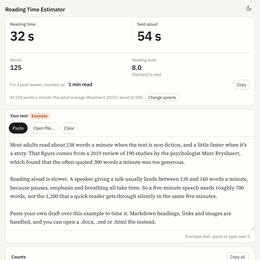
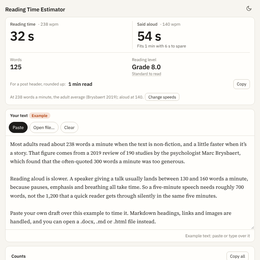
Reading Time Estimator: says whether a speech fits its slot, and how much to cut
Claude-Session: https://claude.ai/code/session_01PtGPta9aD4wVeXaSkeTyWi

diff --git a/tools/reading_time_estimator.html b/tools/reading_time_estimator.html
@@ -740,6 +740,15 @@ if (typeof module !== 'undefined') module.exports = RT;
     el.textContent = text;
     if (lastText !== null) { el.classList.remove('flash'); void el.offsetWidth; el.classList.add('flash'); }
   }
+  // Speeches have slots: measure against the nearest common length.
+  function fitLine(r) {
+    var s = Math.round(r.speakSeconds), T = [1, 2, 3, 5, 10, 15, 20, 30, 45, 60], t = T[0];
+    for (var i = 0; i < T.length; i++) if (Math.abs(T[i] * 60 - s) < Math.abs(t * 60 - s)) t = T[i];
+    var d = t * 60 - s;
+    if (d >= 0) return d ? 'Fits ' + t + ' min with ' + C.formatDuration(d) + ' to spare' : 'Exactly ' + t + ' min';
+    var cut = Math.ceil(-d / 60 * (r.words ? r.speakWpm : C.SPEAK_CPM[r.lang] * r.speakWpm / C.DEFAULTS.speakWpm));
+    return C.formatDuration(-d) + ' over ' + t + ' min: cut about ' + C.fmtInt(cut) + (r.words ? ' words' : ' characters');
+  }
   function keep(s) { return s.replace(/(\d) /g, '$1\u00A0'); }   // "1 min 20 s" may break between groups, never before a unit
   function n1(x) { return x == null ? '–' : (Math.round(x * 10) / 10).toFixed(1); }
   function speedName(w) {
@@ -761,7 +770,7 @@ if (typeof module !== 'undefined') module.exports = RT;
     var parts = '';
     if (empty) parts = input.value.trim() ? 'No words found: only letters and numbers count.' : 'Paste or type your text to time it, or ';
     else if (r.images) parts = C.formatDuration(r.readSeconds - r.imageSeconds) + ' of text + ' + C.formatDuration(r.imageSeconds) +
-      ' for ' + r.images + (r.images === 1 ? ' image' : ' images') + ' (Medium\u2019s rule: 12 s, then 1 s less each)';
+      ' for ' + r.images + (r.images === 1 ? ' image' : ' images');
     var skip = [];
     if (r.frontMatter) skip.push('front matter');
     if (r.codeBlocks) skip.push(r.codeBlocks + (r.codeBlocks === 1 ? ' code block' : ' code blocks'));
@@ -769,7 +778,7 @@ if (typeof module !== 'undefined') module.exports = RT;
     $('parts').textContent = parts;
     $('readSpd').textContent = '\u00B7 ' + (r.cjk && !r.words ? Math.round(C.CPM[r.lang] * r.wpm / C.DEFAULTS.wpm) + '/min' : r.wpm + ' wpm');
     $('speakSpd').textContent = '\u00B7 ' + (r.cjk && !r.words ? Math.round(C.SPEAK_CPM[r.lang] * r.speakWpm / C.DEFAULTS.speakWpm) + '/min' : r.speakWpm + ' wpm');
-    $('fitT').textContent = empty || r.cjk ? '' : 'Fits in 1 / 3 / 5 min: ' + [1, 3, 5].map(function (n) { return C.fmtInt(n * r.speakWpm); }).join(' / ') + ' words';
+    $('fitT').textContent = empty ? '' : fitLine(r);
     if (empty && !input.value.trim()) {
       var ex = document.createElement('button'); ex.type = 'button'; ex.textContent = 'bring back the example';
       ex.addEventListener('click', function () { setText(SAMPLE); });
@@ -785,6 +794,7 @@ if (typeof module !== 'undefined') module.exports = RT;
     var nm = speedName(r.wpm);
     var m = 'At ' + r.wpm + ' words a minute' + (r.wpm === 238 ? ', the adult average (Brysbaert 2019)' : nm ? ', ' + nm : '') +
       '; aloud at ' + r.speakWpm + '.';
+    if (r.images) m += ' Images: 12 s for the first, 1 s less for each next (Medium\u2019s rule).';
     if (r.cjk) {
       var zh = r.lang === 'ja' ? 'Japanese' : 'Chinese', sc = r.wpm / C.DEFAULTS.wpm, ss = r.speakWpm / C.DEFAULTS.speakWpm;
       var cm = zh + ' is read at ' + Math.round(C.CPM[r.lang] * sc) + ' characters a minute and said aloud at ' + Math.round(C.SPEAK_CPM[r.lang] * ss) +
@@ -1121,7 +1131,11 @@ if (typeof module !== 'undefined') module.exports = RT;
       document.querySelectorAll('.presets[data-kind="' + kind + '"] button').forEach(function (b) { b.setAttribute('aria-pressed', +b.dataset.v === r.value); });
       lastText = ''; analyze(input.value);
     });
-    el.addEventListener('blur', function () { if (!el.getAttribute('aria-invalid')) el.value = speeds[kind]; });
+    el.addEventListener('blur', function () {
+      // leaving the field: show the speed in use again rather than a stale error
+      el.value = speeds[kind]; el.removeAttribute('aria-invalid'); $(errId).textContent = '';
+      if (last) render(last);
+    });
   }
   speedField('wpm', 'wpmErr', 'wpm', 50, 1000);
   speedField('spk', 'spkErr', 'speak', 50, 400);
